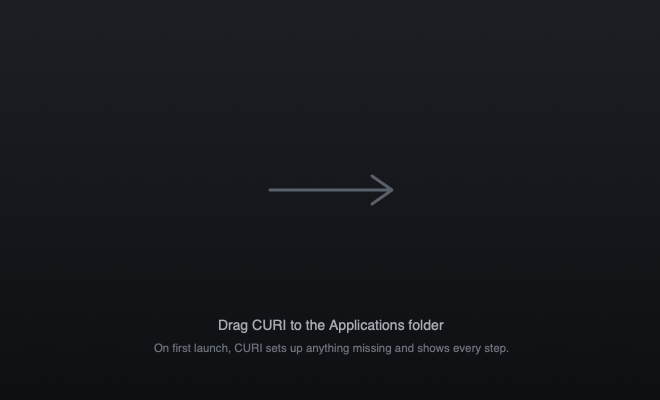
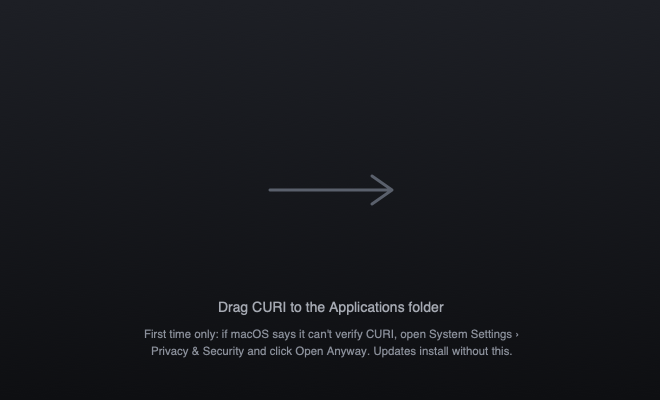
Make the one-time install warning easy
Downloading the file is the main way to install again. The README,
the release notes and the macOS disk image background explain the
first-open step on each system, and that updates afterwards come
through the app without it. The terminal command stays as an option.

Changed region(s): [[0.2121, 0.75, 0.7879, 0.9]]

diff --git a/README.md b/README.md
@@ -87,7 +87,31 @@ Every install runs in a progress window that follows what the package manager is
 
 <p align="center"><img src="docs/screenshots/platforms.jpg" alt="CURI on macOS, Windows and Linux" width="100%"></p>
 
-One line, any system. It downloads the latest release, checks it against the published SHA-256, installs it and opens CURI:
+Download the file for your system from **[the latest release](../../releases/latest)**:
+
+| | Download | Then |
+|---|---|---|
+| **macOS** 13+ (Apple Silicon and Intel) | `CURI_x.y.z_universal.dmg` | Open it and drag CURI to Applications. |
+| **Windows** 10 / 11 (x64) | `CURI_x.y.z_x64-setup.exe` | Run it. It installs for your user only, no admin rights. |
+| **Ubuntu / Debian** (x64, ARM64) | `CURI_x.y.z_amd64.deb` or `_arm64.deb` | Double-click it, or `sudo apt install ./CURI_*.deb`. |
+| **Other Linux** (x64) | `CURI_x.y.z_amd64.AppImage` | Make it executable and run it. |
+
+On first launch CURI installs whatever else is missing (Node.js, Claude Code) into its own folder, shows the progress, and takes a first look at your device. Nothing is installed system-wide.
+
+**The first time only.** CURI isn't signed by Apple or Microsoft yet, so the system asks once whether you trust it:
+
+- **macOS** says it can't verify CURI. Open *System Settings › Privacy & Security*, scroll down and click **Open Anyway**, then confirm.
+- **Windows** shows "Windows protected your PC". Click **More info › Run anyway**.
+- **Linux** doesn't ask.
+
+After that you won't see it again: CURI tells you when a new version is out and **updates itself in one click**. Updates are signed with CURI's release key and checked before they're installed.
+
+<details>
+<summary>Rather use the terminal? One command, no warning at all.</summary>
+
+<br>
+
+It downloads the latest release, checks it against the published SHA-256, installs it and opens CURI.
 
 **macOS and Linux**
 
@@ -101,25 +125,7 @@ curl -fsSL https://raw.githubusercontent.com/kaizensx/curi/main/install.sh | sh
 irm https://raw.githubusercontent.com/kaizensx/curi/main/install.ps1 | iex
 ```
 
-On first launch CURI installs whatever else is missing (Node.js, Claude Code) into its own folder, shows the progress, and takes a first look at your device. Nothing is installed system-wide, and on Windows nothing needs admin rights.
-
-<details>
-<summary>Prefer to download the file yourself?</summary>
-
-<br>
-
-Grab the file for your system from [Releases](../../releases):
-
-| | Download | Then |
-|---|---|---|
-| **macOS** 13+ | `CURI_x.y.z_universal.dmg` | Drag CURI to Applications and open it. |
-| **Windows** 10 / 11 (x64) | `CURI_x.y.z_x64-setup.exe` | Run it. It installs for your user only, no admin rights. |
-| **Ubuntu / Debian** (x64, ARM64) | `CURI_x.y.z_amd64.deb` or `_arm64.deb` | `sudo apt install ./CURI_*.deb`, then open CURI from your apps. |
-| **Other Linux** (x64) | `CURI_x.y.z_amd64.AppImage` | `chmod +x` it and run it. |
-
-Every release has a `SHA256SUMS` file to check your download against.
-
-Files downloaded through a browser get the "from the internet" warning, because the builds aren't signed yet: macOS asks you to confirm in *System Settings › Privacy & Security*, and Windows SmartScreen asks you to click *More info › Run anyway*. The install commands above don't hit that.
+Every release also has a `SHA256SUMS` file, if you want to check a download yourself.
 
 </details>
 

diff --git a/CHANGELOG.md b/CHANGELOG.md
@@ -8,6 +8,7 @@
 - Installing downloads the update, replaces the app and restarts it in a few seconds, on macOS, Windows and the Linux AppImage. With a `.deb` install, *Install* opens the release page instead.
 - An update downloaded by CURI itself doesn't get the unsigned-app warning, so people only see that once, on the first install.
 - *Check for Updates…* in the menu bar or tray, and *Check* in Settings › About, look right away.
+- The README, the release notes and the macOS disk image explain the one-time "can't verify" step for the first install (*Open Anyway* on macOS, *More info › Run anyway* on Windows); downloading the file is the main way to install again, with the terminal command as an option.
 
 **Releases**
 - A version tag now also builds the signed update files and a `latest.json` for installed copies, with the CHANGELOG section as the *What's new* text. Release notes include the install commands.
